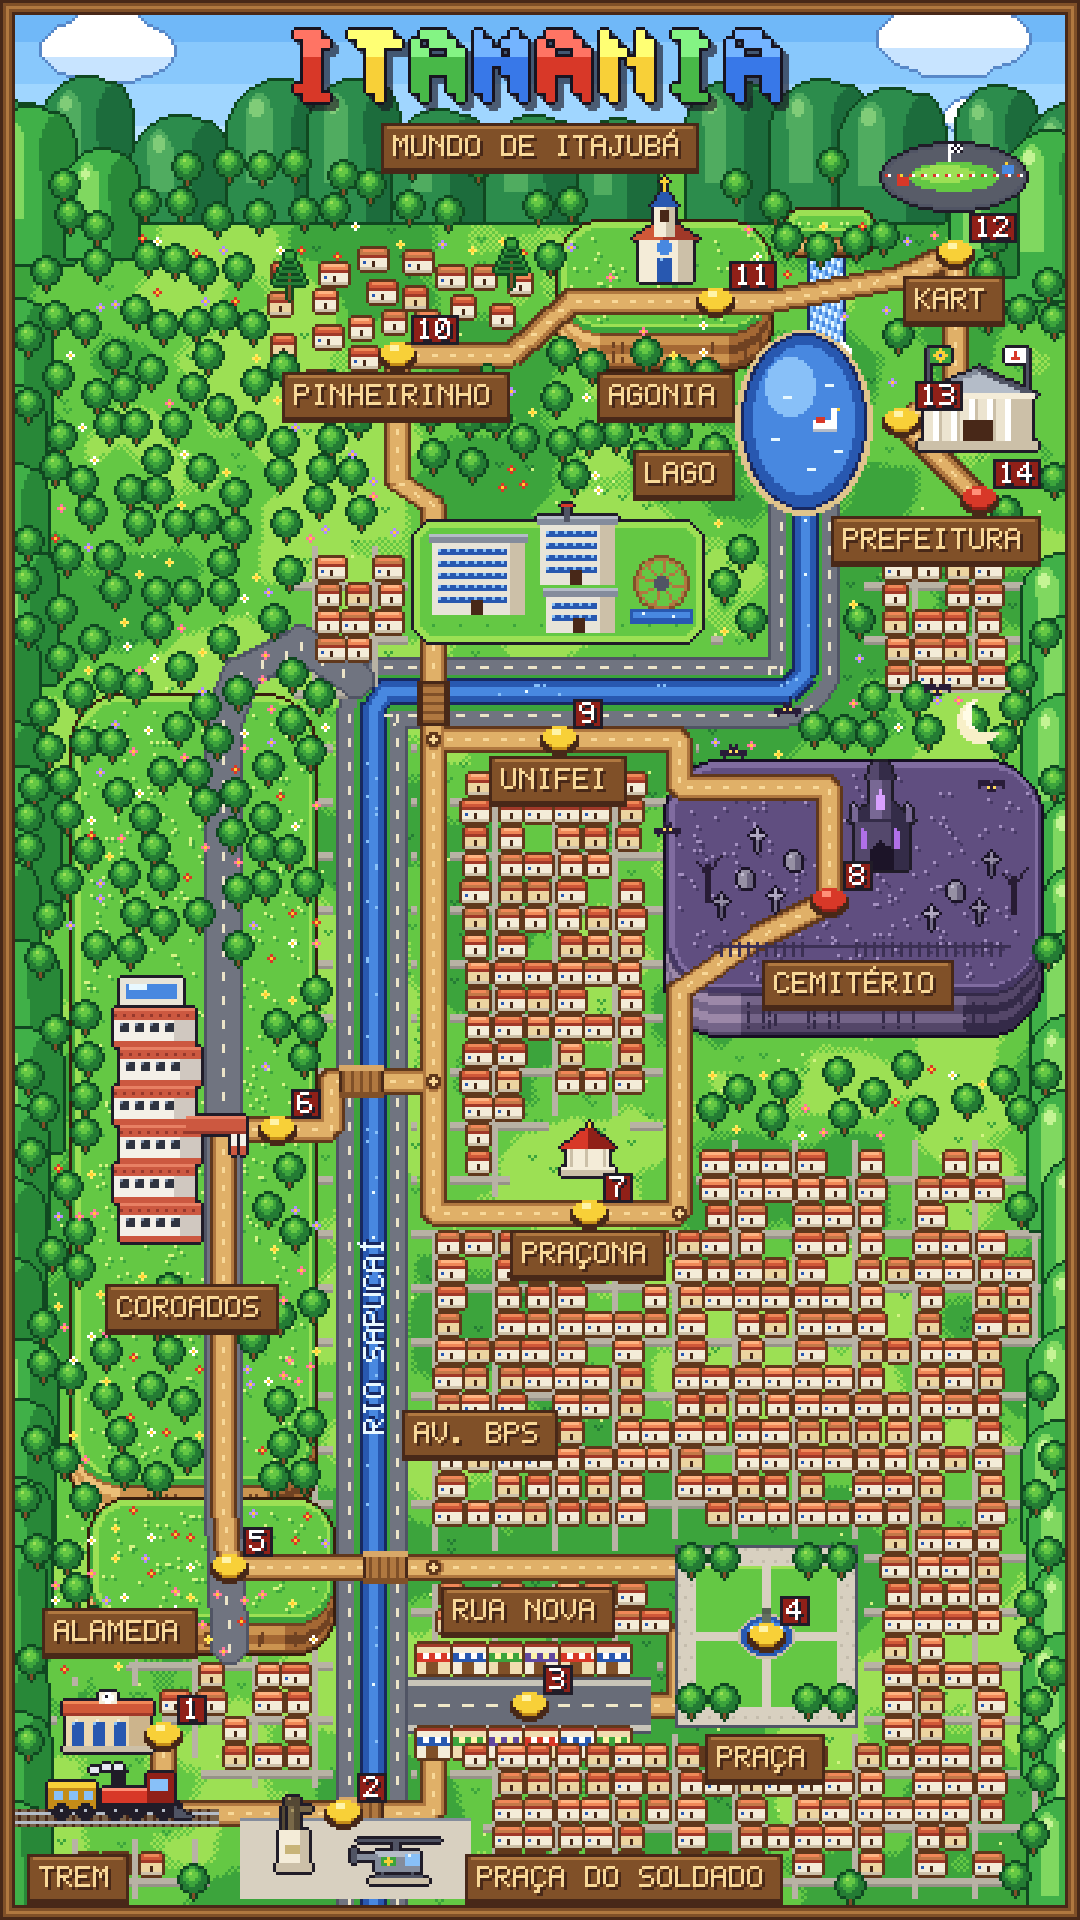
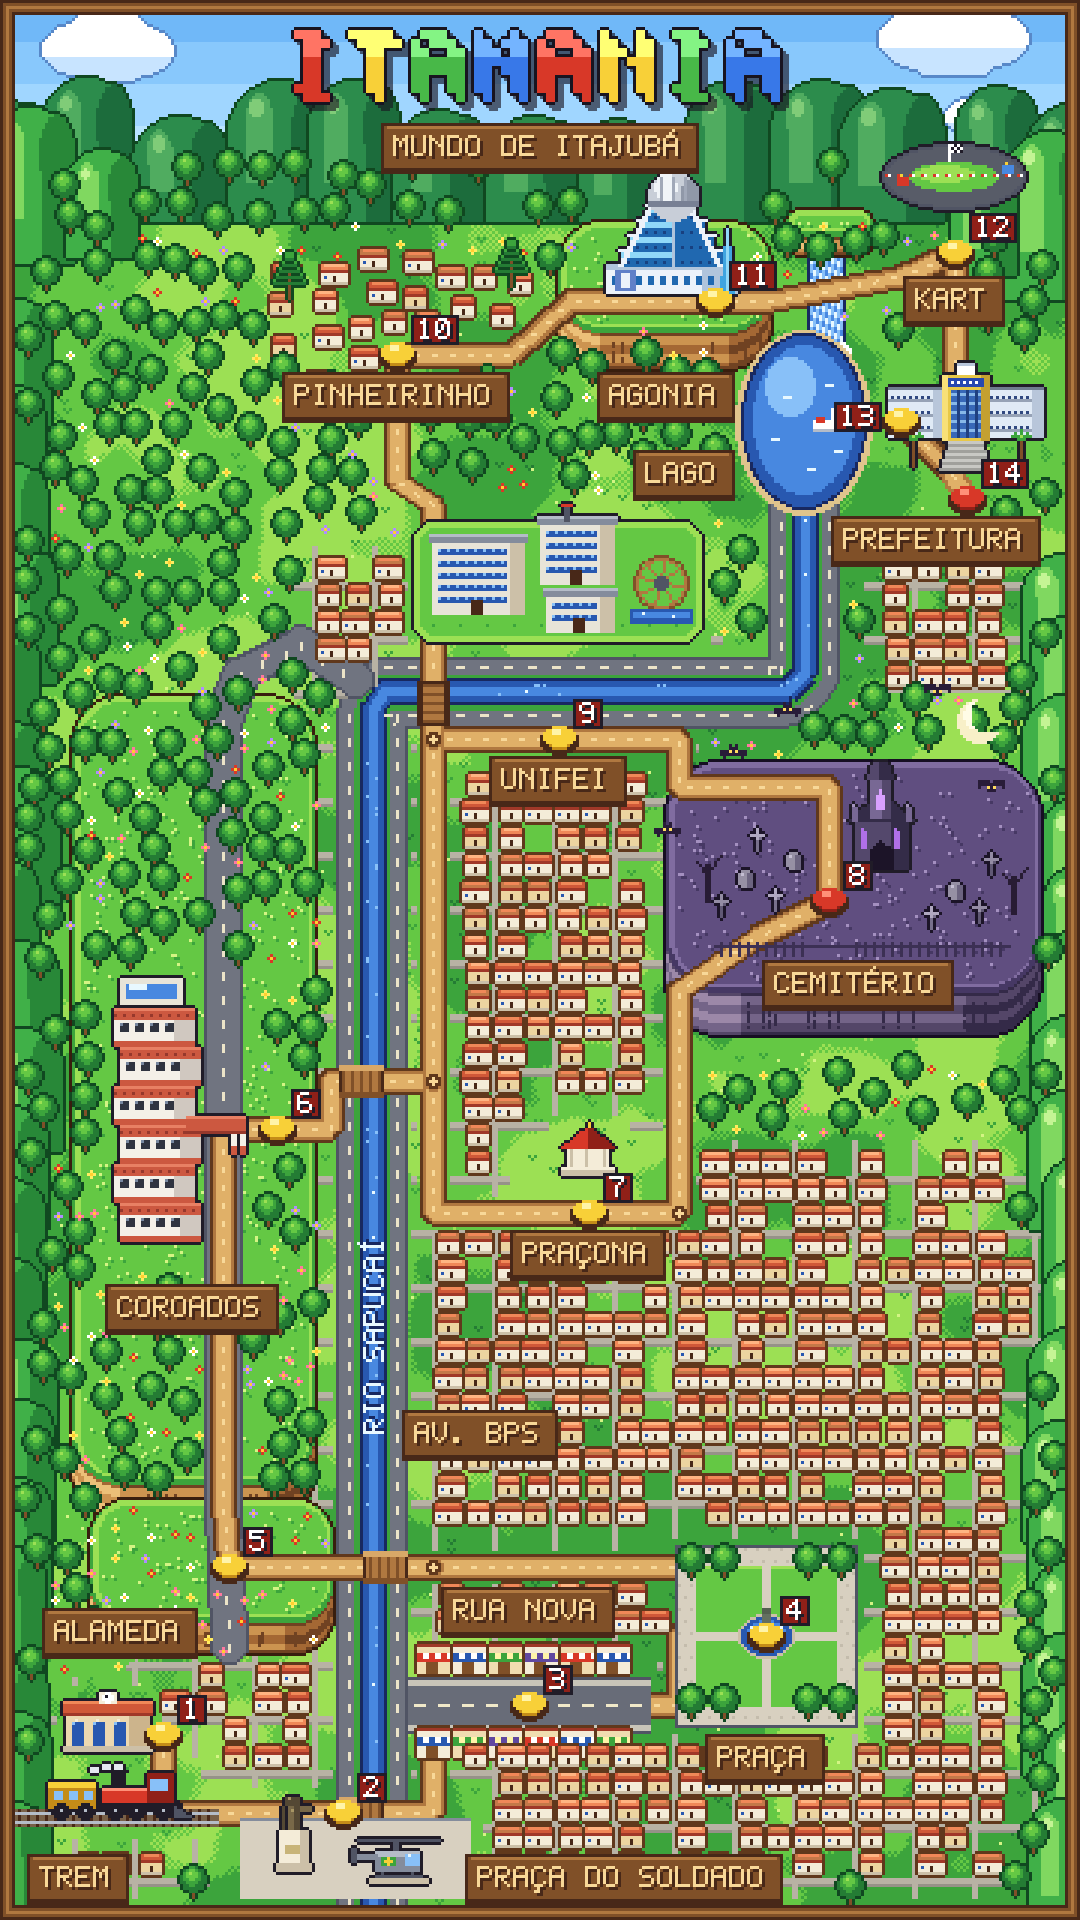
Mapa do Itamania: Santuário da Agonia e Prefeitura a partir das fotos do Pedro
Agonia como pirâmide de vidro azul em degraus com cúpula prateada, nervuras e
torre-agulha; Prefeitura com duas alas branco-azuladas, bloco central amarelo
com placa azul, escadaria e palmeiras.

Claude-Session: https://claude.ai/code/session_01PQYRHDQbqQUf94eH7bEkMV

diff --git a/ferramentas/mapa-mundi/gerar_mapa.py b/ferramentas/mapa-mundi/gerar_mapa.py
@@ -1045,6 +1045,89 @@ def m_hotel_coroados():
     return s
 
 
+def m_agonia_santuario():
+    """Santuário N. Sra. da Agonia (fotos do Pedro, 03/11/2026): pirâmide de vidro azul em degraus, nervuras
+    brancas nos cantos, cúpula prateada com cruz, anexos brancos e azuis na base e a torre-agulha azul na frente."""
+    s, d = spr(44, 44)
+    vid, vid2, vid3, vid4 = (64, 164, 224), (32, 104, 176), (144, 216, 248), (24, 64, 128)
+    br, br2 = (236, 242, 250), (176, 196, 220)
+    # anexos na base
+    ret(d, 0, 34, 43, 43, br)
+    ret(d, 0, 34, 43, 35, br2)
+    ret(d, 32, 34, 43, 43, br2)
+    for x in range(2, 42, 4):
+        ret(d, x, 38, x + 1, 40, vid2)
+    ret(d, 3, 36, 9, 42, (96, 128, 200))  # painel azul com a imagem
+    ret(d, 5, 37, 7, 41, br)
+    # degraus da pirâmide (de baixo para cima)
+    for i, (w_, y_) in enumerate([(34, 29), (28, 24), (22, 19), (16, 14)]):
+        x0 = 22 - w_ // 2
+        ret(d, x0, y_, x0 + w_ - 1, y_ + 5, vid)
+        ret(d, x0, y_ + 3, x0 + w_ - 1, y_ + 5, vid2)
+        ret(d, 22, y_ + 1, x0 + w_ - 1, y_ + 5, vid2)
+        ret(d, x0, y_ + 1, 21, y_ + 2, vid3)
+        ret(d, x0 - 1, y_, x0 + w_, y_, br)
+        for x in range(x0 + 2, x0 + w_ - 1, 3):
+            px(d, x, y_ + 4, vid4)
+    # nervuras diagonais dos cantos até a cúpula
+    for x0_, x1_ in ((5, 16), (38, 27)):
+        d.line([(x0_, 34), (x1_, 13)], fill=rgba(br), width=2)
+    d.line([(22, 34), (22, 13)], fill=rgba(br2), width=1)
+    # cúpula prateada
+    d.ellipse([14, 3, 30, 19], fill=rgba((200, 206, 216)))
+    ret(d, 14, 11, 30, 14, (200, 206, 216))
+    d.ellipse([16, 4, 23, 12], fill=rgba((240, 244, 248)))
+    d.ellipse([25, 6, 30, 14], fill=rgba((144, 152, 168)))
+    for x in (18, 22, 26):
+        d.line([(x, 5), (x, 14)], fill=rgba((160, 168, 184)))
+    ret(d, 14, 13, 30, 14, (120, 128, 148))
+    ret(d, 22, 0, 22, 3, C['am'])
+    ret(d, 21, 1, 23, 1, C['am'])
+    # torre-agulha azul na frente
+    d.polygon([(38, 43), (40, 22), (42, 43)], fill=rgba(vid))
+    d.line([(40, 22), (40, 43)], fill=rgba(vid3))
+    return s
+
+
+def m_prefeitura_itajuba():
+    """Prefeitura (foto do Pedro, 03/11/2026): duas alas compridas branco-azuladas com faixas cinza, bloco central
+    amarelo com placa azul e entrada de vidro, torrinha em cima, escadaria larga até a avenida, palmeiras."""
+    s, d = spr(52, 38)
+    pa, pa2, faixa, jan = (224, 234, 246), (184, 198, 218), (150, 162, 182), (48, 72, 128)
+    for x0, x1 in ((0, 18), (33, 51)):
+        ret(d, x0, 10, x1, 25, pa)
+        ret(d, x0, 9, x1, 9, (112, 124, 144))
+        for y in (13, 18, 23):
+            ret(d, x0, y, x1, y, faixa)
+            for x in range(x0 + 1, x1, 2):
+                px(d, x, y - 1, jan)
+        ret(d, x1 - 3 if x0 else x1 - 3, 10, x1, 25, pa2)
+    # bloco central
+    ret(d, 18, 5, 33, 26, (232, 200, 72))
+    ret(d, 18, 5, 19, 26, (248, 224, 120))
+    ret(d, 31, 5, 33, 26, (196, 160, 48))
+    ret(d, 20, 6, 31, 8, (40, 72, 176))
+    for x in range(21, 31, 2):
+        px(d, x, 7, C['br'])
+    ret(d, 21, 10, 30, 25, (56, 104, 184))
+    for y in range(11, 25, 3):
+        ret(d, 21, y, 30, y, (136, 184, 232))
+    for x in (23, 26, 29):
+        ret(d, x, 10, x, 25, (32, 64, 128))
+    ret(d, 23, 1, 28, 4, C['br'])
+    ret(d, 23, 1, 28, 1, pa2)
+    # escadaria
+    for k, y in enumerate(range(27, 37)):
+        ret(d, 20 - k // 3, y, 31 + k // 3, y, (200, 200, 196) if y % 2 else (160, 160, 156))
+    # palmeiras
+    for x in (8, 44):
+        ret(d, x, 26, x, 35, C['mad1'])
+        for dx, dy in ((-3, -1), (3, -1), (-2, -2), (2, -2), (0, -3)):
+            d.line([(x, 26), (x + dx, 26 + dy)], fill=rgba(C['g1']))
+        px(d, x, 25, C['g3'])
+    return s
+
+
 # ---------------------------------------------------------------- mapa (em pé)
 def main():
     base = terreno()
@@ -1148,9 +1231,9 @@ def main():
     MARCOS = [
         ('hotel', m_hotel_coroados(), (59, 418)),
         ('unifei', m_unifei_campus(), (186, 214)),
-        ('prefeitura', m_prefeitura(), (326, 150)),
+        ('prefeitura', m_prefeitura_itajuba(), (322, 158)),
         ('kart', m_kart(), (318, 70)),
-        ('agonia', m_agonia(), (222, 94)),
+        ('agonia', m_agonia_santuario(), (224, 98)),
         ('capela', m_capela_gotica(), (294, 290)),
         ('coreto', m_coreto(), (196, 392)),
         ('estacao', m_estacao(), (36, 584)),
@@ -1172,7 +1255,7 @@ def main():
         'trem': (54, 578), 'soldado': (114, 604), 'ruanova': (176, 568), 'praca': (255, 545),
         'alameda': (76, 522), 'coroados': (92, 376), 'pracona': (196, 404), 'cemiterio': (276, 300),
         'unifei': (186, 246), 'pinheirinho': (132, 118), 'agonia': (238, 100), 'kart': (318, 84),
-        'lago': (300, 140), 'prefeitura': (326, 166),
+        'lago': (300, 140), 'prefeitura': (322, 166),
         'j1': (144, 522), 'j2': (144, 360), 'j3': (144, 246), 'j4': (226, 404),
     }
     ROTAS = [
@@ -1448,7 +1531,7 @@ def main():
     for k, nome in enumerate(ORDEM):
         x, y = N[nome]
         t = texto_img(str(k + 1), C['br'], C['preto']).crop((0, 2, 6 * len(str(k + 1)) + 1, 10))
-        bx0, by0 = x + 5, y - 13
+        bx0, by0 = (x - 22, y - 6) if nome == 'lago' else (x + 5, y - 13)
         ret(d, bx0, by0, bx0 + t.width + 2, by0 + t.height + 1, C['preto'])
         ret(d, bx0 + 1, by0 + 1, bx0 + t.width + 1, by0 + t.height, C['vm2'])
         base.alpha_composite(t, (bx0 + 2, by0 + 1))

diff --git a/references/mapa/proposta-mapa.md b/references/mapa/proposta-mapa.md
@@ -28,6 +28,21 @@
   começa na Alameda.
 - **Arquivos:** os prints e a foto (de terceiros, no Google Maps) foram usados só como referência e não estão no repositório.
 
+## Agonia e Prefeitura (fotos do Pedro, 03/11/2026)
+
+- **Santuário N. Sra. da Agonia:**
+  - pirâmide de vidro azul em degraus, com nervuras brancas nos cantos;
+  - cúpula prateada com cruz;
+  - anexos brancos e azuis na base, com o painel da imagem;
+  - torre-agulha azul na frente;
+  - no alto do morro.
+- **Prefeitura de Itajubá:**
+  - duas alas compridas branco-azuladas com faixas cinza;
+  - bloco central amarelo com placa azul e entrada de vidro;
+  - torrinha em cima;
+  - escadaria larga até a avenida e palmeiras.
+- As fotos (de terceiros) foram usadas só como referência e não estão no repositório.
+
 ## O que o mapa mostra
 
 - **Formato em pé.** O eixo central de Itajubá é a **Av. BPS**, com o **Rio Sapucaí** correndo no meio dela. A avenida sobe pela
@@ -82,7 +97,7 @@
 
 ## A confirmar com o Pedro
 
-1. **Fotos:** Agonia, Hotel Coroados, Prefeitura, estação/trem, Praçona e a Praça (é a do Theodomiro?).
+1. **Fotos:** estação/trem, Praçona, a Praça (é a do Theodomiro?), Rua Nova, Kart, Lago e Praça do Soldado.
 2. **Prefeitura:** o caderno diz "cadastrar pessoas". Se o jogo for coletar dados, isso precisa ser decidido antes,
    porque a regra 5 do projeto proíbe coletar dados pessoais.
 3. **Figurões:** onde entram? Pessoas vivas só com o OK delas.
